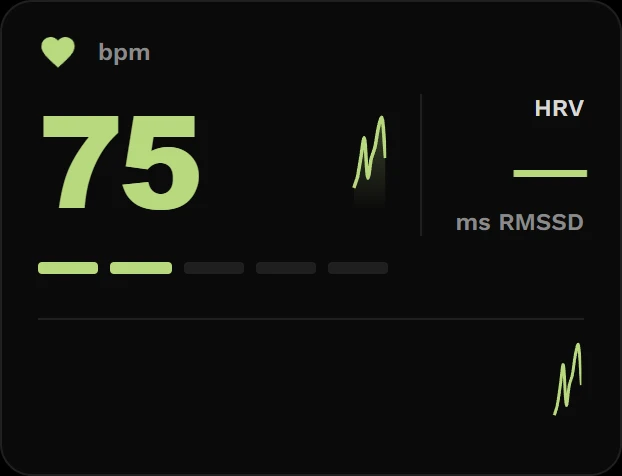
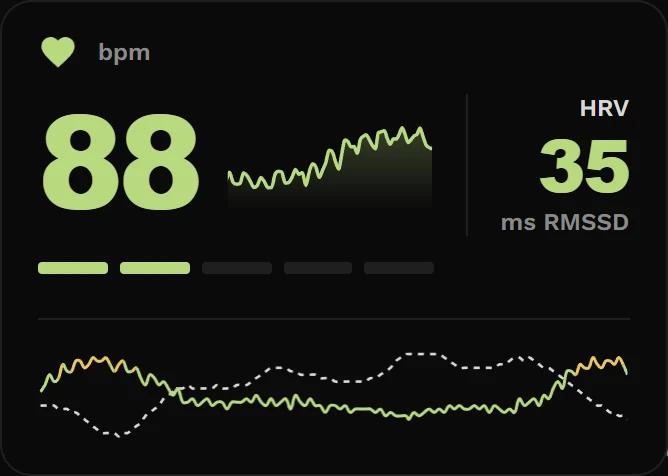
New look: widget pictures with full traces

diff --git a/new-look.html b/new-look.html
@@ -63,10 +63,17 @@
   .zoom img { display: block; width: 100%; height: auto; }
   .zoom:hover { border-color: var(--text-dim); }
   .zoom:focus-visible { outline: 2px solid var(--action); outline-offset: 3px; }
-  .pair-widget { grid-template-columns: minmax(0, 1fr) minmax(0, 1fr); }
-  .now-set { display: grid; grid-template-columns: minmax(0, 1fr) minmax(0, 1fr); gap: var(--s4); align-items: start; }
+  /* Widgets at their true size (each figure's --w is its footprint), so the layouts compare at one scale. */
+  .pair-widget, .now-set { display: flex; flex-wrap: wrap; gap: var(--s5); align-items: flex-start; }
+  .pair-widget .shot, .now-set .shot { width: var(--w); max-width: 100%; }
+  .now-set { margin-top: var(--s5); }
   .now-set .shot figcaption { font-weight: 500; }
-  .pair-widget .zoom { background: var(--bg); }
+  .pair-widget .zoom, .now-set .zoom { background: var(--bg); }
+  @media (min-width: 1024px) {
+    .now-set { display: grid; grid-template-columns: minmax(0, 144fr) minmax(0, 216fr) minmax(0, 334fr); grid-template-rows: auto auto;
+      column-gap: var(--s4); row-gap: 0; max-width: calc(694px + 2 * var(--s4)); }
+    .now-set .shot { display: grid; grid-template-rows: subgrid; grid-row: span 2; width: auto; }
+  }
   .speed ul { margin: 0; padding-left: var(--s5); max-width: 40em; color: var(--text-dim); }
   .speed li + li { margin-top: var(--s2); }
   .next { padding-top: var(--s7); border-top: 1px solid var(--border); }
@@ -446,39 +453,39 @@
       </div>
       <div class="area-pics">
       <div class="pair pair-widget">
-        <figure class="shot">
+        <figure class="shot" style="--w: 311px">
           <figcaption>Before</figcaption>
           <button type="button" class="zoom" data-full="./assets/new-look/widget-before-single-full.webp" aria-label="Show full size: Stream widget before: heart rate, HRV and the live trace with all-caps units">
             <img src="./assets/new-look/widget-before-single.webp" width="622" height="476" alt="Stream widget before: heart rate, HRV and the live trace with all-caps units" loading="lazy" decoding="async">
           </button>
         </figure>
-        <div class="now-set">
-          <figure class="shot now">
-            <figcaption>Now: Full chip, 311 × 238 px</figcaption>
+          <figure class="shot now" style="--w: 334px">
+            <figcaption>Now: Full chip, 334 × 238 px</figcaption>
             <button type="button" class="zoom" data-full="./assets/new-look/widget-after-chip-full.webp" aria-label="Show full size: Stream widget now, full chip: heart rate, HRV and the live trace">
-              <img src="./assets/new-look/widget-after-chip.webp" width="622" height="476" alt="Stream widget now, full chip: heart rate, HRV and the live trace" loading="lazy" decoding="async">
+              <img src="./assets/new-look/widget-after-chip.webp" width="668" height="476" alt="Stream widget now, full chip: heart rate, HRV and the live trace" loading="lazy" decoding="async">
             </button>
           </figure>
-          <figure class="shot now">
-            <figcaption>Now: Heart rate only, 145 × 148 px</figcaption>
+      </div>
+        <div class="now-set">
+          <figure class="shot now" style="--w: 144px">
+            <figcaption>Now: Heart rate only, 144 × 148 px</figcaption>
             <button type="button" class="zoom" data-full="./assets/new-look/widget-after-slim-full.webp" aria-label="Show full size: Stream widget now, slim: heart rate only">
               <img src="./assets/new-look/widget-after-slim.webp" width="290" height="296" alt="Stream widget now, slim: heart rate only" loading="lazy" decoding="async">
             </button>
           </figure>
-          <figure class="shot now">
-            <figcaption>Now: Heart rate and HRV, 217 × 148 px</figcaption>
+          <figure class="shot now" style="--w: 216px">
+            <figcaption>Now: Heart rate and HRV, 216 × 148 px</figcaption>
             <button type="button" class="zoom" data-full="./assets/new-look/widget-after-hrhrv-full.webp" aria-label="Show full size: Stream widget now: heart rate and HRV side by side">
-              <img src="./assets/new-look/widget-after-hrhrv.webp" width="434" height="296" alt="Stream widget now: heart rate and HRV side by side" loading="lazy" decoding="async">
+              <img src="./assets/new-look/widget-after-hrhrv.webp" width="432" height="296" alt="Stream widget now: heart rate and HRV side by side" loading="lazy" decoding="async">
             </button>
           </figure>
-          <figure class="shot now">
-            <figcaption>Now: No trends, 311 × 152 px</figcaption>
+          <figure class="shot now" style="--w: 334px">
+            <figcaption>Now: No trends, 334 × 152 px</figcaption>
             <button type="button" class="zoom" data-full="./assets/new-look/widget-after-notrends-full.webp" aria-label="Show full size: Stream widget now: heart rate, live trace and HRV without the trend row">
-              <img src="./assets/new-look/widget-after-notrends.webp" width="622" height="304" alt="Stream widget now: heart rate, live trace and HRV without the trend row" loading="lazy" decoding="async">
+              <img src="./assets/new-look/widget-after-notrends.webp" width="668" height="304" alt="Stream widget now: heart rate, live trace and HRV without the trend row" loading="lazy" decoding="async">
             </button>
           </figure>
         </div>
-      </div>
       </div>
     </section>
 
